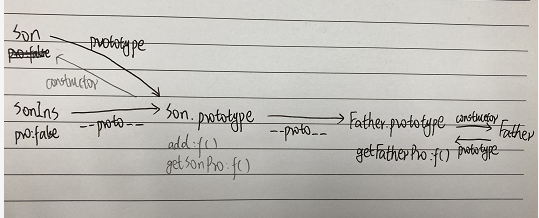
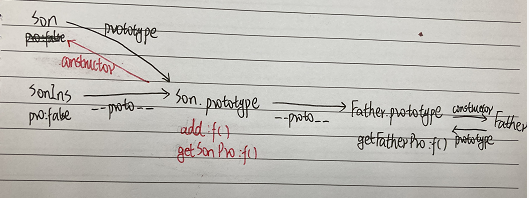
更新js继承方法

diff --git a/js-grammar/aa.js b/js-grammar/aa.js
@@ -12,8 +12,8 @@ Son.prototype.add = function () {
 };
 console.log('old Son.prototype: ',Son.prototype)
 // Son.prototype = new Father(); //a
-Son.prototype.__proto__ = Father.prototype; //b
-// Son.prototype = Father.prototype; //c
+// Son.prototype.__proto__ = Father.prototype; //b
+Son.prototype = Father.prototype; //c
 
 Son.prototype.getSonPro = function () {
   return this.pro;

diff --git a/js-grammar/inherit.md b/js-grammar/inherit.md
@@ -2,7 +2,7 @@
 JS主要依靠原型链来实现继承
 
 ## 原型链继承
-### 重写子类原型
+### 重写子类原型为父类的实例
 ```js
 function Father() {
   this.pro = true;
@@ -17,7 +17,7 @@ Son.prototype.add = function () {
   return "继承之前子类原型添加的方法";
 };
 console.log('old Son.prototype: ',Son.prototype)
-Son.prototype = new Father(); //a.重写子类原型
+Son.prototype = new Father(); //a.重写子类原型为父类的实例
 // Son.prototype.__proto__ = Father.prototype; //b.
 // Son.prototype = Father.prototype; //c.
 
@@ -40,8 +40,8 @@ console.log(sonIns instanceof Son) //true sonIns.__proto__ === Son.prototype
 可以看出Son.prototype中没有了constructor属性，这是因为在`Son.prototype = new Father()`时Son.prototype已经被
 重写了，所以sonIns.constructor通过原型链指向了父类Father
 
-###
-把上面例子的a替换成b：
+### 子类原型的__proto__属性指向父类原型
+把第一个例子的继承语句a替换成b，子类原型的__proto__属性指向父类原型
 ```js
 function Father() {
   this.pro = true;
@@ -57,7 +57,7 @@ Son.prototype.add = function () {
 };
 console.log('old Son.prototype: ',Son.prototype)
 // Son.prototype = new Father(); //a
-Son.prototype.__proto__ = Father.prototype; //b
+Son.prototype.__proto__ = Father.prototype; //b 子类原型的__proto__属性指向父类原型
 // Son.prototype = Father.prototype; //c
 
 Son.prototype.getSonPro = function () {
@@ -71,6 +71,46 @@ console.log('sonIns.constructor：',sonIns.constructor);
 ```
 打印如下：<br>
 ![](image/16197449488030.png)<br>
-
-原型链关系如下图(铅笔写的部分表示与上例的不同，手头没有其他颜色的笔了/(ㄒoㄒ)/~~)：<br>
+原型链关系如下图(红色部分表示与上例的不同)：<br>
 ![](image/16197450951755.png)<br>
+可以看作是不严格的继承，没有重新定义子类的原型对象，所以子类的构造函数不变
+
+### 重写子类原型为父类原型
+把第一个例子的继承语句a替换成c，重写子类原型为父类原型
+```js
+function Father() {
+  this.pro = true;
+}
+Father.prototype.getFatherPro = function () {
+  return this.pro;
+};
+function Son() {
+  this.pro = false;
+}
+Son.prototype.add = function () {
+  return "继承之前子类原型添加的方法";
+};
+console.log('old Son.prototype: ',Son.prototype)
+// Son.prototype = new Father(); //a
+// Son.prototype.__proto__ = Father.prototype; //b
+Son.prototype = Father.prototype; //c 重写子类原型为父类原型
+
+Son.prototype.getSonPro = function () {
+  return this.pro;
+};
+let sonIns = new Son();
+console.log('Father.prototype：',Father.prototype);
+console.log('Son.prototype：', Son.prototype);
+console.log('Son.constructor：',Son.constructor);
+console.log('sonIns.constructor：',sonIns.constructor);
+```
+打印如下：<br>
+![](image/16197461676529.png)<br>
+原型链关系如下图(红色部分表示与上例的不同)：<br>
+![](image/1619746424556.png)<br>
+可以看作是直接用父类的原型对象替换子类的原型对象，子类和父类的原型对象指向同一地址，即子类的原型对象就
+是父类的 原型对象,子类实例的构造函数指向父类<br>
+重新定义了子类的原型对象，子类实例的构造函数指向父类的constructor属性
+
+> **总结**
+> 原型链继承在创建子类的实例时，无法向父类构造函数传递参数

diff --git a/js-grammar/createObject.md b/js-grammar/createObject.md
@@ -182,7 +182,7 @@ console.log(p1.sayName === p2.sayName);  //true
 ```
 构造函数模式用来定义实例私有的属性，原型模式用来定义实例的方法和共享属性<br>
 每个实例都会有自己的一份实例属性的副本，但同时又共享着对方法的引用,最大限度的节省了内存<br>
-**该方法是目前最认可的一种创建对象的方法**
+> 该方法是目前最认可的一种创建对象的方法
 
 ## 动态原型模式
 ```js
